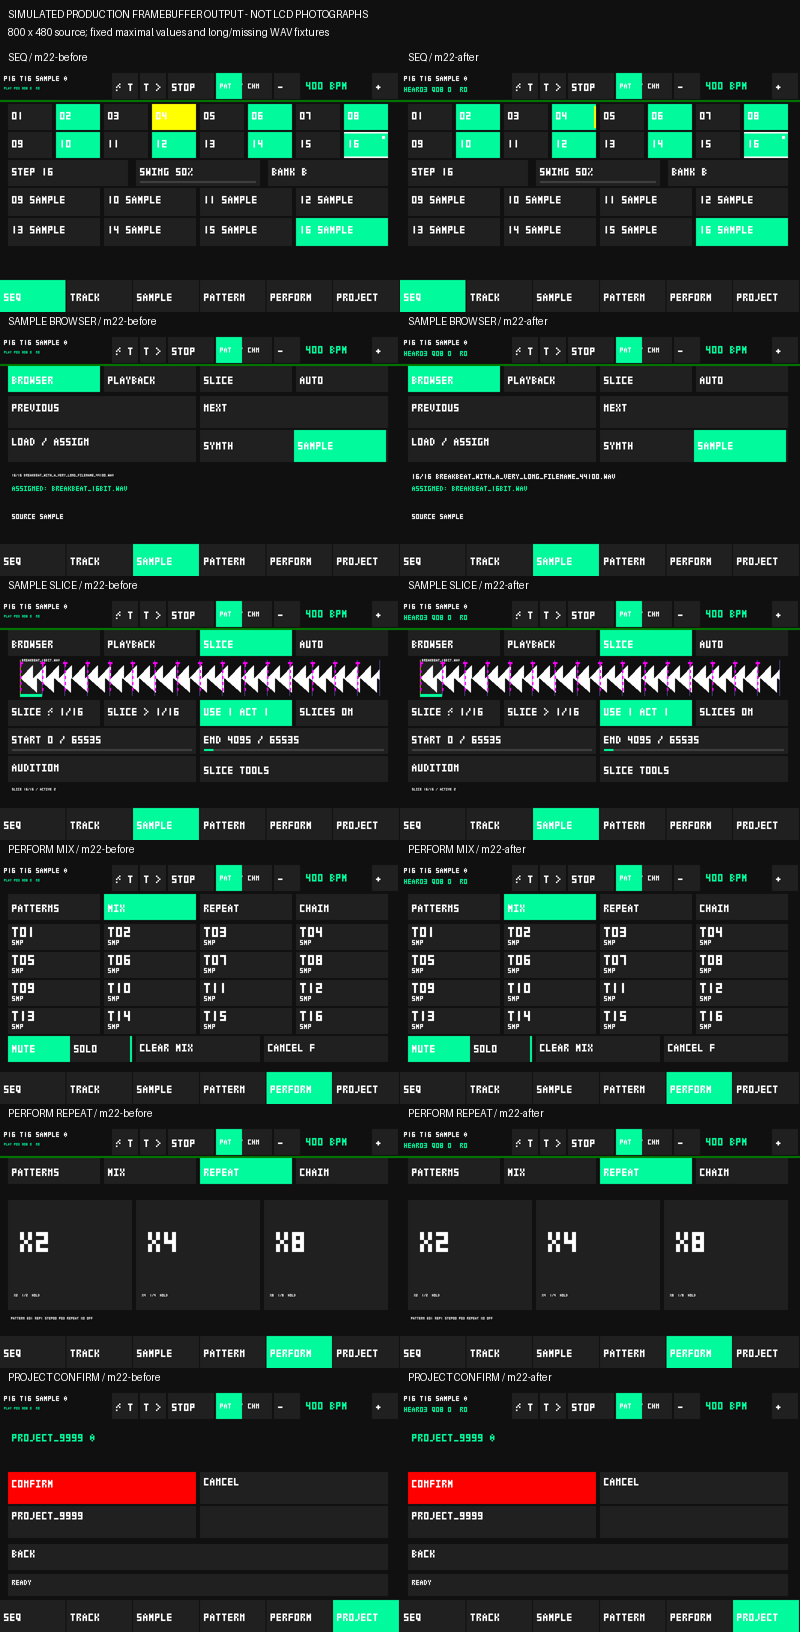
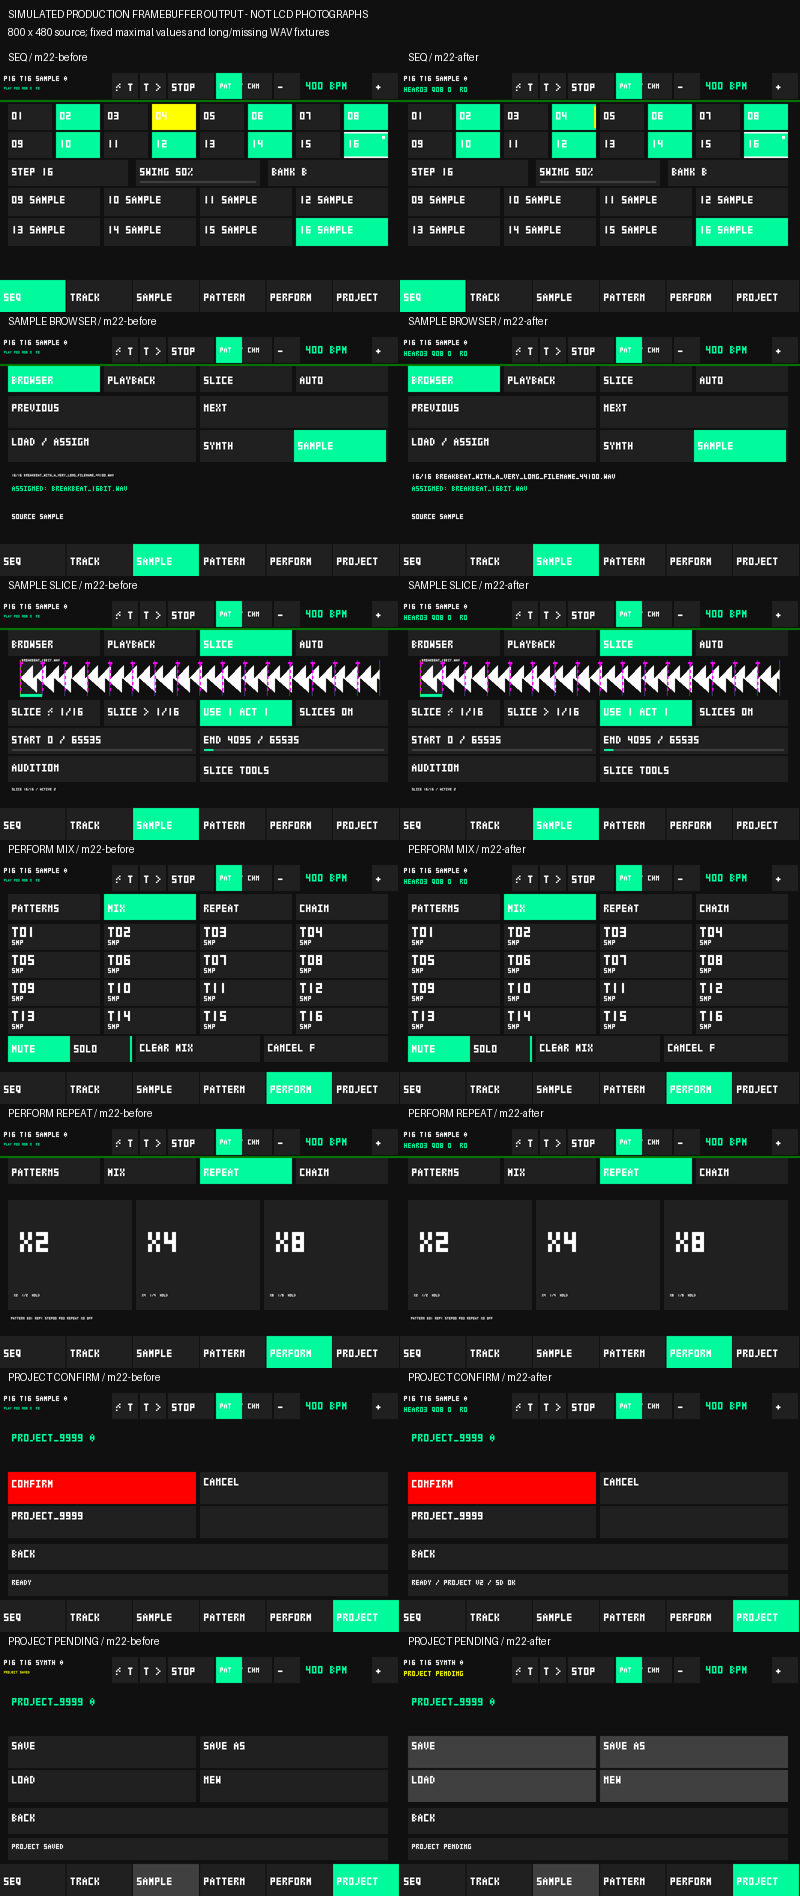
Show storage requests and pending Project state without stale success

diff --git a/src/app_main.cpp b/src/app_main.cpp
@@ -589,7 +589,9 @@ void draw_content(int id) {
     char text[128]{};
     const auto r = app::page_widget(ui.page, id);
     if (id == 161) {
-      strlcpy(text, ui_notification.active ? ui_notification.text : "READY", sizeof(text));
+      if(projects::busy()) strlcpy(text,"PROJECT PENDING",sizeof(text));
+      else if(ui_notification.active) strlcpy(text,ui_notification.text,sizeof(text));
+      else projects::status(text,sizeof(text));
     } else if (id == 153)
       strlcpy(text, "PROJECT", sizeof(text));
     else if (project_ui.mode == project::Workflow::Mode::Confirm) {
@@ -624,6 +626,7 @@ void draw_content(int id) {
     if (id == 160)
       strlcpy(text, "BACK", sizeof(text));
     display::rect(r.x, r.y, r.w, r.h, panel);
+    if(projects::busy() && id>=154 && id<=157) display::rect(r.x,r.y,r.w,r.h,app::ui20::theme::disabled);
     ui_text(r.x + 8, r.y + 12, text, white, id == 161 ? 2 : app::ui20::control_scale);
     return;
   }
@@ -1108,7 +1111,8 @@ void header() {
   display::rect(r.x,r.y,r.w,r.h,bg); ui_text(8,8,line,white,2);
   snprintf(line,sizeof(line),"HEAR%02d Q%02d %s%s R%u",view.playing_pattern+1,view.queued_pattern+1,
       view.performance.override_active>=0 ? "O " : "",view.performance.fill_active>=0 ? "F " : "",view.performance.repeat.active);
-  ui_text(8,30,ui_notification.active ? ui_notification.text : line,ui_notification.active ? app::ui20::theme::warning : accent,2); display::reset_clip();
+  ui_text(8,30,projects::busy() ? "PROJECT PENDING" : ui_notification.active ? ui_notification.text : line,
+      projects::busy() || ui_notification.active ? app::ui20::theme::warning : accent,2); display::reset_clip();
   draw(306); draw(307); draw(29); draw(178); tempo_header();
 }
 void render_page() {
@@ -1384,8 +1388,11 @@ void interact(int id, int x, bool initial) {
       projects::request(Op::Scan);
     } else if (id == 157)
       submit = project_ui.confirm(Op::New, "UNTITLED", projects::dirty());
-    if (submit && projects::request(project_ui.pending, project_ui.target))
-      project_ui.cancel();
+    if(submit) {
+      const bool accepted=projects::request(project_ui.pending,project_ui.target);
+      ui_notification.show(accepted ? "PROJECT REQUESTED" : "PROJECT REQUEST REJECTED",millis());
+      if(accepted) project_ui.cancel();
+    }
     full = true;
     return;
   }
@@ -1796,8 +1803,11 @@ void interact(int id, int x, bool initial) {
       sample_index = app::clamp(sample_index + (id == 38 ? -1 : 1), 0,
                                 int(samples::count()) - 1);
       dirty[38] = true;
-    } else if (id == 40)
-      samples::request(ui.selected, sample_index);
+    } else if (id == 40) {
+      const bool accepted=samples::request(ui.selected,sample_index);
+      ui_notification.show(accepted ? "WAV LOAD REQUESTED" : "WAV LOAD REJECTED",millis());
+      dirty[45]=dirty[222]=true;
+    }
     else if (id == 41) {
       if (samples::has_sample(ui.selected) && !samples::busy())
         send({app::Kind::Source, uint8_t(ui.selected),
@@ -1989,10 +1999,18 @@ void ui_task(void *) {
       projects::view_ready.store(true, std::memory_order_release);
       full = true;
     }
-    if (project_revision != projects::revision.load() ||
+    static bool project_busy=false;
+    const bool next_project_busy=projects::busy();
+    if (project_revision != projects::revision.load() || next_project_busy!=project_busy ||
         project_changes != projects::changes.load()) {
-      if(project_revision != projects::revision.load()) { char message[96]; projects::status(message,sizeof(message)); ui_notification.show(message,millis()); }
+      if(project_revision != projects::revision.load() || next_project_busy!=project_busy) {
+        char message[96];
+        if(next_project_busy) strlcpy(message,"PROJECT PENDING",sizeof(message));
+        else projects::status(message,sizeof(message));
+        ui_notification.show(message,millis());
+      }
       project_revision = projects::revision.load();
+      project_busy=next_project_busy;
       project_changes = projects::changes.load();
       dirty[45]=true;
       if (ui.page == app::Page::Project)

diff --git a/tests/m22_device.py b/tests/m22_device.py
@@ -1,0 +1,29 @@
+"""Archive exact final images, strictly qualify both loads, restore normal app."""
+from pathlib import Path
+import datetime
+import json
+import shutil
+import subprocess
+import sys
+root=Path('docs/m22');root.mkdir(exist_ok=True)
+stamp=datetime.datetime.now(datetime.timezone.utc).strftime('%Y%m%dT%H%M%SZ')
+base=Path('.pio/m22-artifacts')/stamp
+environments={'production':'guition_app','nearest':'guition_app_nearest_legacy','sample':'guition_m22_sample','synth':'guition_m22_synth'}
+for case,environment in environments.items():
+    subprocess.run([sys.executable,'tests/archive_firmware.py',environment,str(base/case)],check=True)
+for case in ('SAMPLE','SYNTH'):
+    for name in (case+'_SERIAL.log',case.lower()+'_results.json'):
+        path=root/name
+        if path.exists(): shutil.move(path,root/('INITIAL_'+name))
+try:
+    for case in ('sample','synth'):
+        capture=root/(case.upper()+'_SERIAL.log')
+        subprocess.run([sys.executable,'tests/m213_archived_capture.py',str(base/case),'120',str(capture)],check=True)
+        manifest=json.loads((base/case/'manifest.json').read_text())
+        capture.write_bytes(f"# M22 archive={base/case} source_sha={manifest['baseline_sha']} UI actions=scripted; no finger observation.\n".encode()+capture.read_bytes())
+        subprocess.run([sys.executable,'tests/analyze_m22.py',str(capture),'--output',str(root/(case+'_results.json'))]+(['--synth'] if case=='synth' else []),check=True)
+finally:
+    subprocess.run([sys.executable,'tests/m213_archived_capture.py',str(base/'production'),'8',str(root/'PRODUCTION_BOOT_SERIAL.log')],check=True)
+    manifests={p.parent.relative_to(Path('.pio/m22-artifacts')).as_posix():json.loads(p.read_text()) for p in Path('.pio/m22-artifacts').rglob('manifest.json')}
+    (root/'artifacts.json').write_text(json.dumps(manifests,indent=2)+'\n')
+print('Final exact-source M22 scripted device qualification passed; normal application restored; HUMAN PHYSICAL UX ACCEPTANCE PENDING')

diff --git a/tests/render_ui.py b/tests/render_ui.py
@@ -61,6 +61,8 @@ void track_name(unsigned,char *out,unsigned size) { strlcpy(out,missing_fixture 
 void message(char *out,unsigned size) { strlcpy(out,"WAV LOADED / 44100 HZ / 16 BIT",size); }
 }
 namespace projects {
+bool busy_fixture=false;
+bool busy() { return busy_fixture; }
 bool dirty() { return true; }
 void current(char *out,unsigned size) { strlcpy(out,"PROJECT_9999",size); }
 void status(char *out,unsigned size) { strlcpy(out,"READY / PROJECT V2 / SD OK",size); }
@@ -130,6 +132,7 @@ else:
   ui.page=app::Page::Project;project_ui.mode=project::Workflow::Mode::Confirm;strlcpy(project_ui.target,"PROJECT_9999",sizeof(project_ui.target));display::fill(bg);header();render_page();save(std::string(argv[1])+"/confirm.ppm");
   ui.page=app::Page::SamplePlayback;view.tracks[15].sample=false;display::fill(bg);header();render_page();save(std::string(argv[1])+"/disabled_sample.ppm");
   ui.page=app::Page::Project;project_ui.mode=project::Workflow::Mode::Browser;display::fill(bg);header();render_page();save(std::string(argv[1])+"/load.ppm");
+  ui.page=app::Page::Project;project_ui.mode=project::Workflow::Mode::Home;projects::busy_fixture=true;ui_notification.show("PROJECT SAVED",millis());display::fill(bg);header();render_page();save(std::string(argv[1])+"/project_pending.ppm");projects::busy_fixture=false;
   ui.page=app::Page::Sample;view.tracks[15].sample=true;samples::missing_fixture=true;ui_notification.show("LOAD FAILED / MISSING WAV",millis());display::fill(bg);header();render_page();save(std::string(argv[1])+"/missing_sample.ppm");
     '''
 suffix=suffix.replace('PAGE_COUNT','18' if a.baseline else '19').replace('RENDER_PAGE',render).replace('EXTRA_VARIANTS',extra)

diff --git a/tests/m22_screens.py b/tests/m22_screens.py
@@ -17,7 +17,7 @@ views=[('SEQ','page_0'),('TRACK MAIN','page_1'),('TRACK TONE','page_11'),
        ('LOCKS BASIC','page_7'),('LOCKS TONE','page_10'),('LOCKS SAMPLE','page_14'),
        ('PERFORM PATTERNS','page_15'),('PERFORM MIX','mix'),('PERFORM REPEAT','page_16'),
        ('PERFORM CHAIN','page_8'),('PROJECT HOME','page_6'),('PROJECT CONFIRM','confirm'),
-       ('PROJECT LOAD','load'),('MISSING / LONG WAV','missing_sample'),('SYNTH DISABLED','disabled_sample')]
+       ('PROJECT LOAD','load'),('MISSING / LONG WAV','missing_sample'),('SYNTH DISABLED','disabled_sample'),('PROJECT PENDING','project_pending')]
 # Page enum is read below so this script cannot silently label a different view.
 source=Path('src/app/model.h').read_text();body=source.split('enum class Page {',1)[1].split('}',1)[0]
 names=[n.strip().split('=')[0].strip() for n in body.split(',') if n.strip()]
@@ -35,7 +35,7 @@ def sheet(rows,folders,path):
             y=48+row*264;draw.text((col*400+8,y+3),title+' / '+folder,fill='white');canvas.paste(image,(col*400,y+24))
     canvas.save(path)
 sheet(views,['m22-after'],out/'sections.png')
-sheet([views[n] for n in (0,3,5,13,14,17)],['m22-before','m22-after'],out/'before_after.png')
+sheet([views[n] for n in (0,3,5,13,14,17,21)],['m22-before','m22-after'],out/'before_after.png')
 for name,pixels in expected.items():
     assert Image.open(out/name).convert('RGB').tobytes()==pixels,'Framebuffer screenshot regression: '+name
 print('M22 before/after and full subtab host-render evidence PASS')
